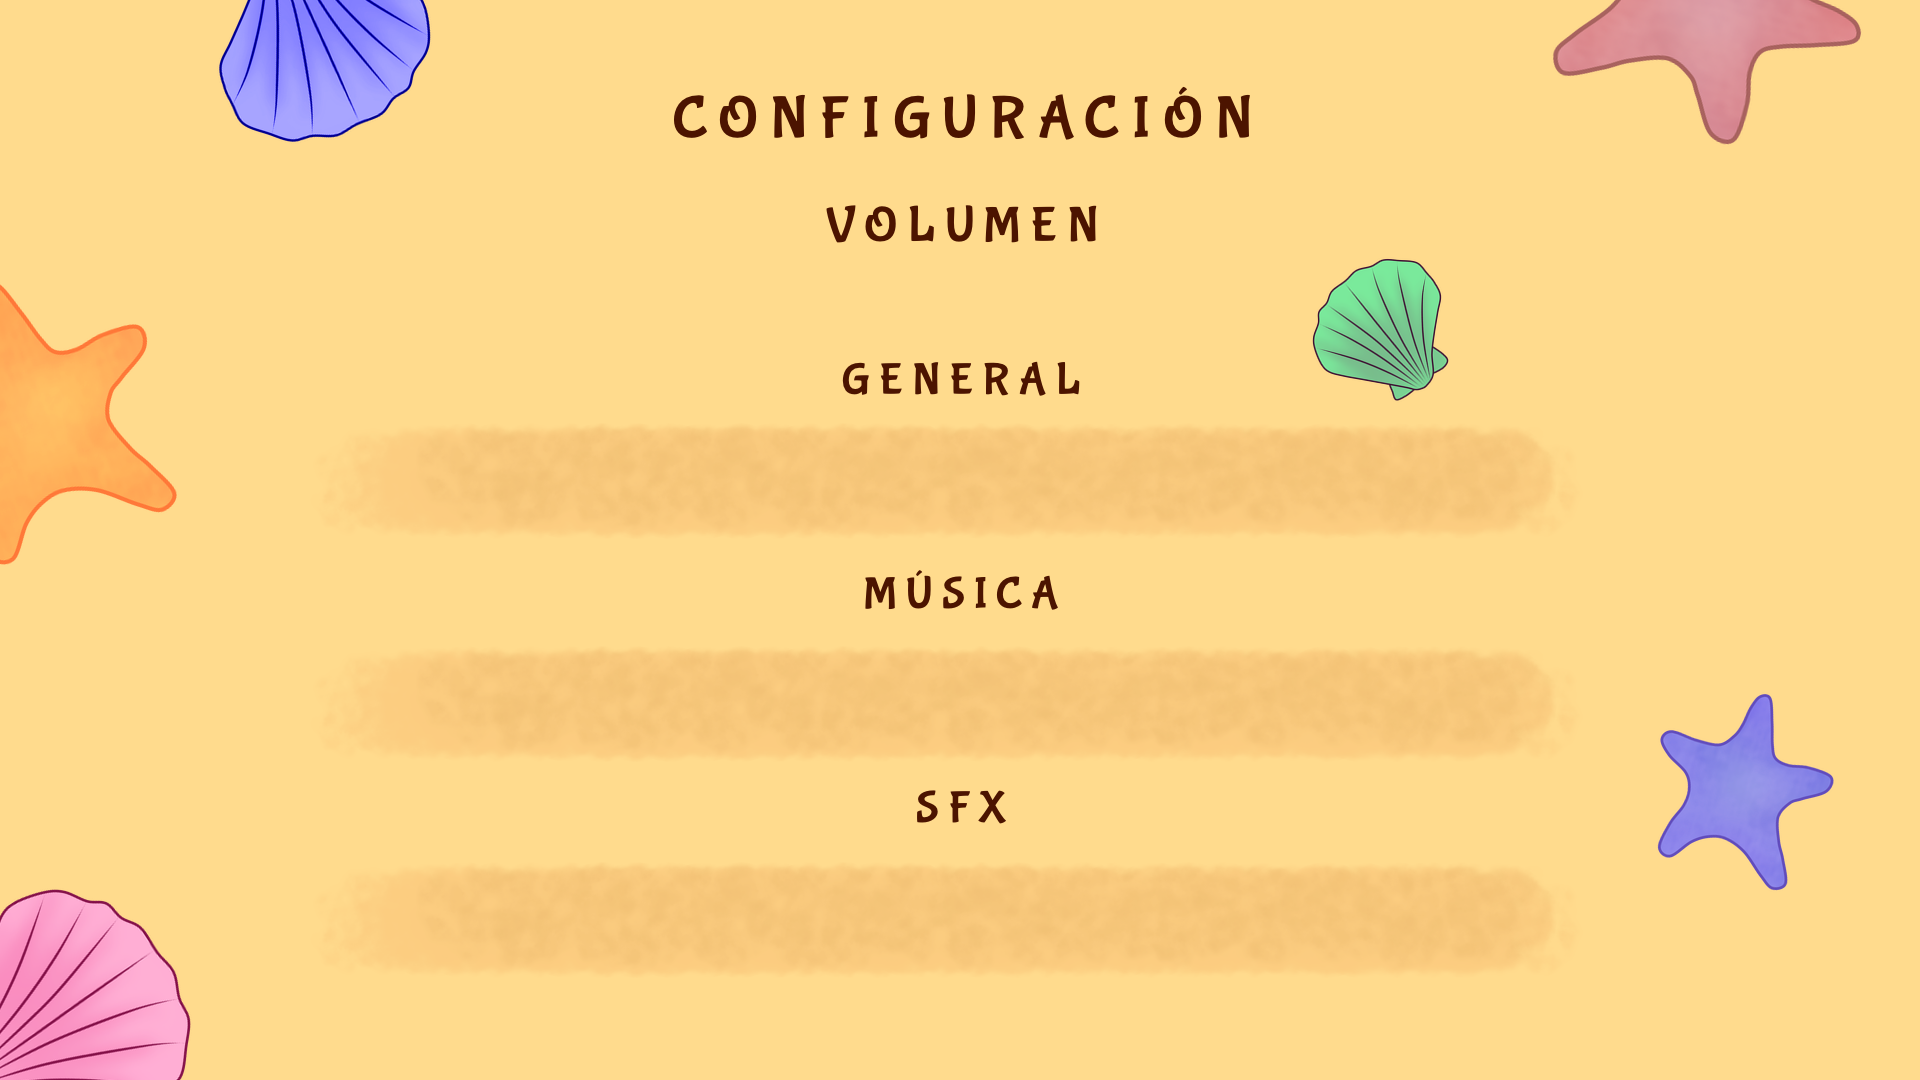
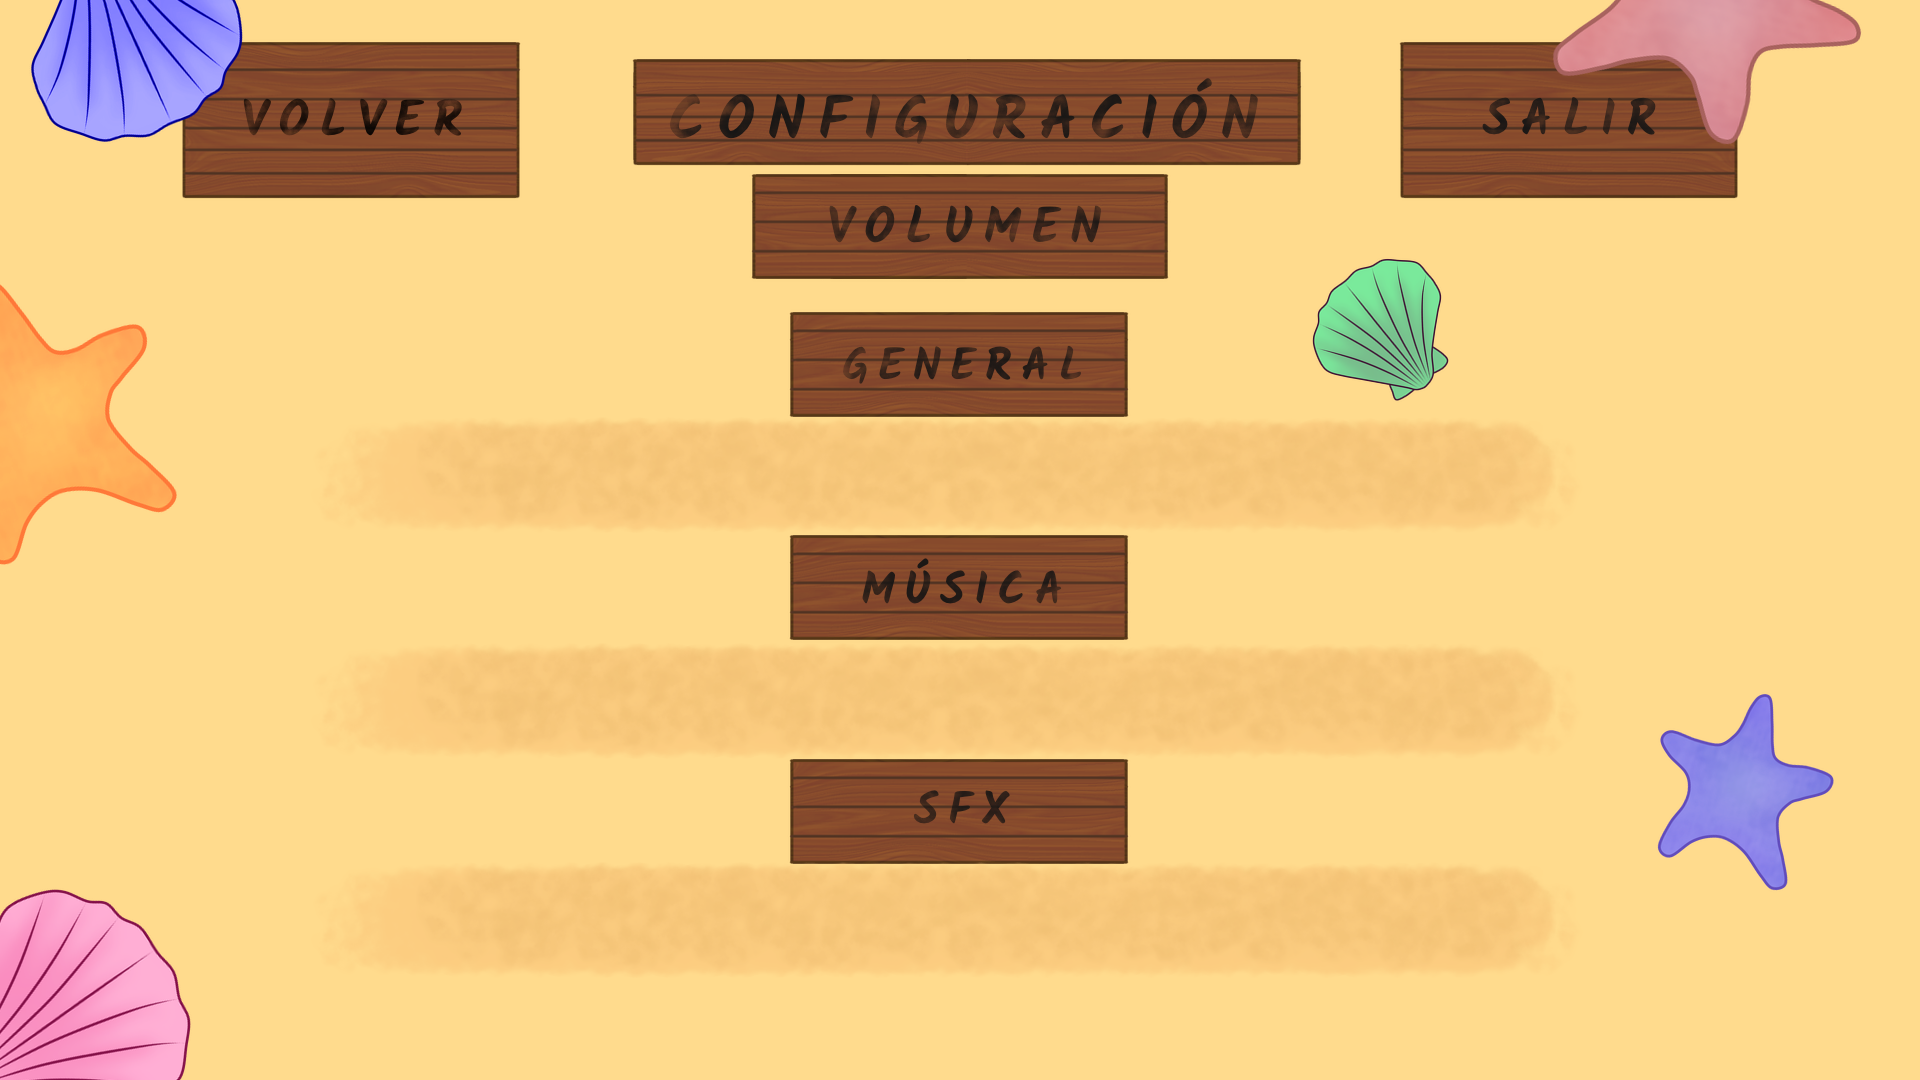
Arreglo al Menú de opciones
Ahora tiene dos botones nuevos:
-Salir: Cierra el juego y sale al menú
-Volver: Vuelve al menú de pausa

diff --git a/Scenes/OptionsMenu.js b/Scenes/OptionsMenu.js
@@ -7,6 +7,9 @@ class OptionsMenu extends Phaser.Scene{
         this.load.plugin('rexsliderplugin', 'https://raw.githubusercontent.com/rexrainbow/phaser3-rex-notes/master/dist/rexsliderplugin.min.js', true);
 
         this.load.image('optionsBackground','Assets/OptionsMenu/OptionsBackground.png')
+        this.load.image('optionsReturn','Assets/OptionsMenu/OptionsReturn.png')
+        this.load.image('optionsQuit','Assets/OptionsMenu/OptionsQuit.png')
+        this.load.image('optionsForeground','Assets/OptionsMenu/OptionsForeground.png')
         this.load.spritesheet('sliderCrab','Assets/OptionsMenu/OptionsSlider.png', { frameWidth: 185, frameHeight: 142 });
         this.delay = 0;
     }
@@ -16,7 +19,11 @@ class OptionsMenu extends Phaser.Scene{
     sliderCrab3;
     cursorsKey
     delay;
-    create(){
+    returnButton;
+    quitButton;
+    create(data){
+        let prevScene = data[0];
+        let gameScene = data[1]
         this.sliders = new Array(3);
         /*
         let spacing = 0;
@@ -63,7 +70,9 @@ class OptionsMenu extends Phaser.Scene{
         this.sliderCrab1 = this.add.sprite(960, 475, 'sliderCrab')
         this.sliderCrab2 = this.add.sprite(960, 695, 'sliderCrab')
         this.sliderCrab3 = this.add.sprite(960, 915, 'sliderCrab')
-/**/
+
+        /**/
+        //#region SET SLIDERS region
         this.sliderCrab1.slider = this.plugins.get('rexsliderplugin').add(this.sliderCrab1, {
             endPoints: [{
                 x: this.sliderCrab1.x - 520,
@@ -150,8 +159,31 @@ class OptionsMenu extends Phaser.Scene{
             align: 'center',
             fontFamily: 'cursive'
         });
-
+        //#endregion
         //*/
+
+        this.quitButton = this.add.image(351, 120, 'optionsQuit');
+        this.returnButton =  this.add.image(1569, 120, 'optionsReturn');
+        
+        this.quitButton.setInteractive()
+        this.quitButton.on("pointerdown",function () {
+            if(typeof gameScene === "string"){
+                this.scene.stop(prevScene);
+                this.scene.stop(gameScene);
+            }
+            this.scene.start('MainMenu');
+        },this)
+        this.returnButton.setInteractive()
+        this.returnButton.on("pointerdown",function () {
+            if(typeof prevScene !== "string")
+                this.scene.start('MainMenu')
+            else {
+                console.log(prevScene)
+                this.scene.wake(prevScene);
+            }
+            this.scene.sleep();
+        },this)
+        this.add.image(960, 540, 'optionsForeground');
         this.cursorsKey = this.input.keyboard.createCursorKeys()
     }
 

diff --git a/Scenes/PauseMenu.js b/Scenes/PauseMenu.js
@@ -8,18 +8,18 @@ class PauseMenu extends Phaser.Scene{
         this.load.image('options','Assets/PauseMenu/BotonOpciones.png')
     }
 
-    create(prevScene){
+    create(gameScene){
         const resume = this.add.image(660, 440, 'resume').setScale(0.5);
         const options = this.add.image(1260, 640, 'options').setScale(0.5);
         const self = this;
         resume.setInteractive();
         resume.on("pointerdown",function (){
-            self.scene.resume(prevScene);
+            self.scene.resume(gameScene);
             self.scene.stop()
         });
         options.setInteractive();
         options.on("pointerdown",function (){
-            self.scene.launch('OptionsMenu');
+            self.scene.launch('OptionsMenu', ['PauseMenu',gameScene]);
             self.scene.sleep();
         });
     }

diff --git a/Scenes/OfflineGame.js b/Scenes/OfflineGame.js
@@ -222,7 +222,7 @@ class OfflineGame extends Phaser.Scene {
         this.load.image('paquete', 'Assets/Buzon paquetes/Paquete.png', { frameWidth: 32, frameHeight: 32 });
 
         //Objetos
-        this.load.image('mancuerna', 'Assets/Objetos/macuerna.png');
+        this.load.image('mancuerna', 'Assets/Objetos/mancuerna.png');
         this.load.image('ps5', 'Assets/Objetos/Play.png');
         this.load.image('ps5Game', 'Assets/Objetos/ps5Game.png');
         this.load.image('yunque', 'Assets/Objetos/yunque.png');
